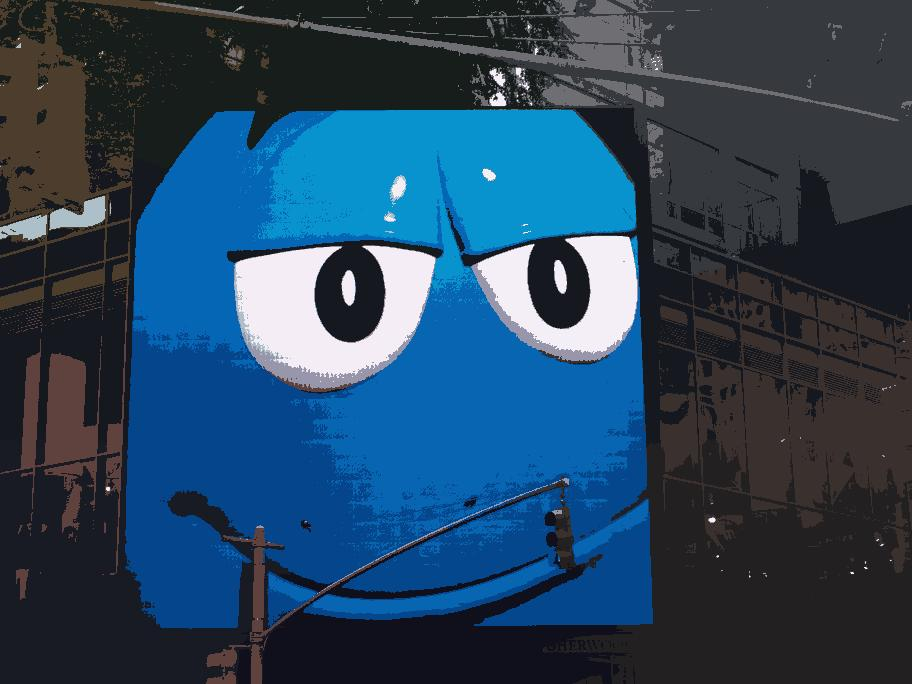
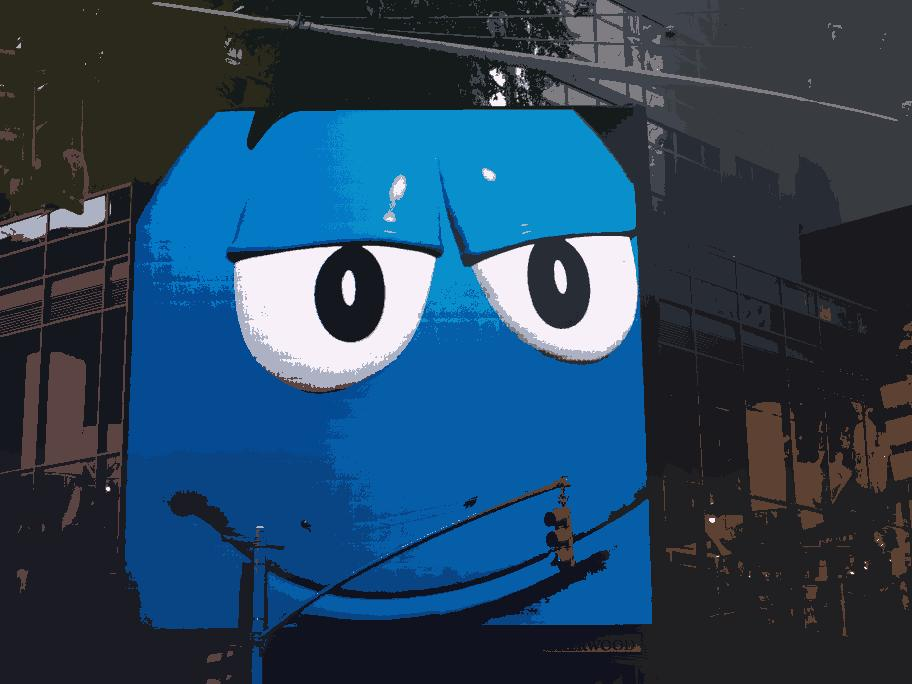
add img k=20

diff --git a/UE1/A2/run_kmeans.m b/UE1/A2/run_kmeans.m
@@ -1,13 +1,13 @@
 %% Run kmeans with image "mm.jpg" for different cluster numbers
 % % K = 3
-% main('./imgs/mm.jpg','3D',3,1.001);
-% main('./imgs/mm.jpg','5D',3,1.001);
+main('./imgs/mm.jpg','3D',3,1.001);
+main('./imgs/mm.jpg','5D',3,1.001);
 % % K = 5
-% main('./imgs/mm.jpg','3D',5,1.001);
-% main('./imgs/mm.jpg','5D',5,1.001);
+main('./imgs/mm.jpg','3D',5,1.001);
+main('./imgs/mm.jpg','5D',5,1.001);
 % % K = 10
-% main('./imgs/mm.jpg','3D',10,1.001);
-% main('./imgs/mm.jpg','5D',10,1.001);
+main('./imgs/mm.jpg','3D',10,1.001);
+main('./imgs/mm.jpg','5D',10,1.001);
 % K = 20
 main('./imgs/mm.jpg','3D',20,1.001);
 main('./imgs/mm.jpg','5D',20,1.001);
